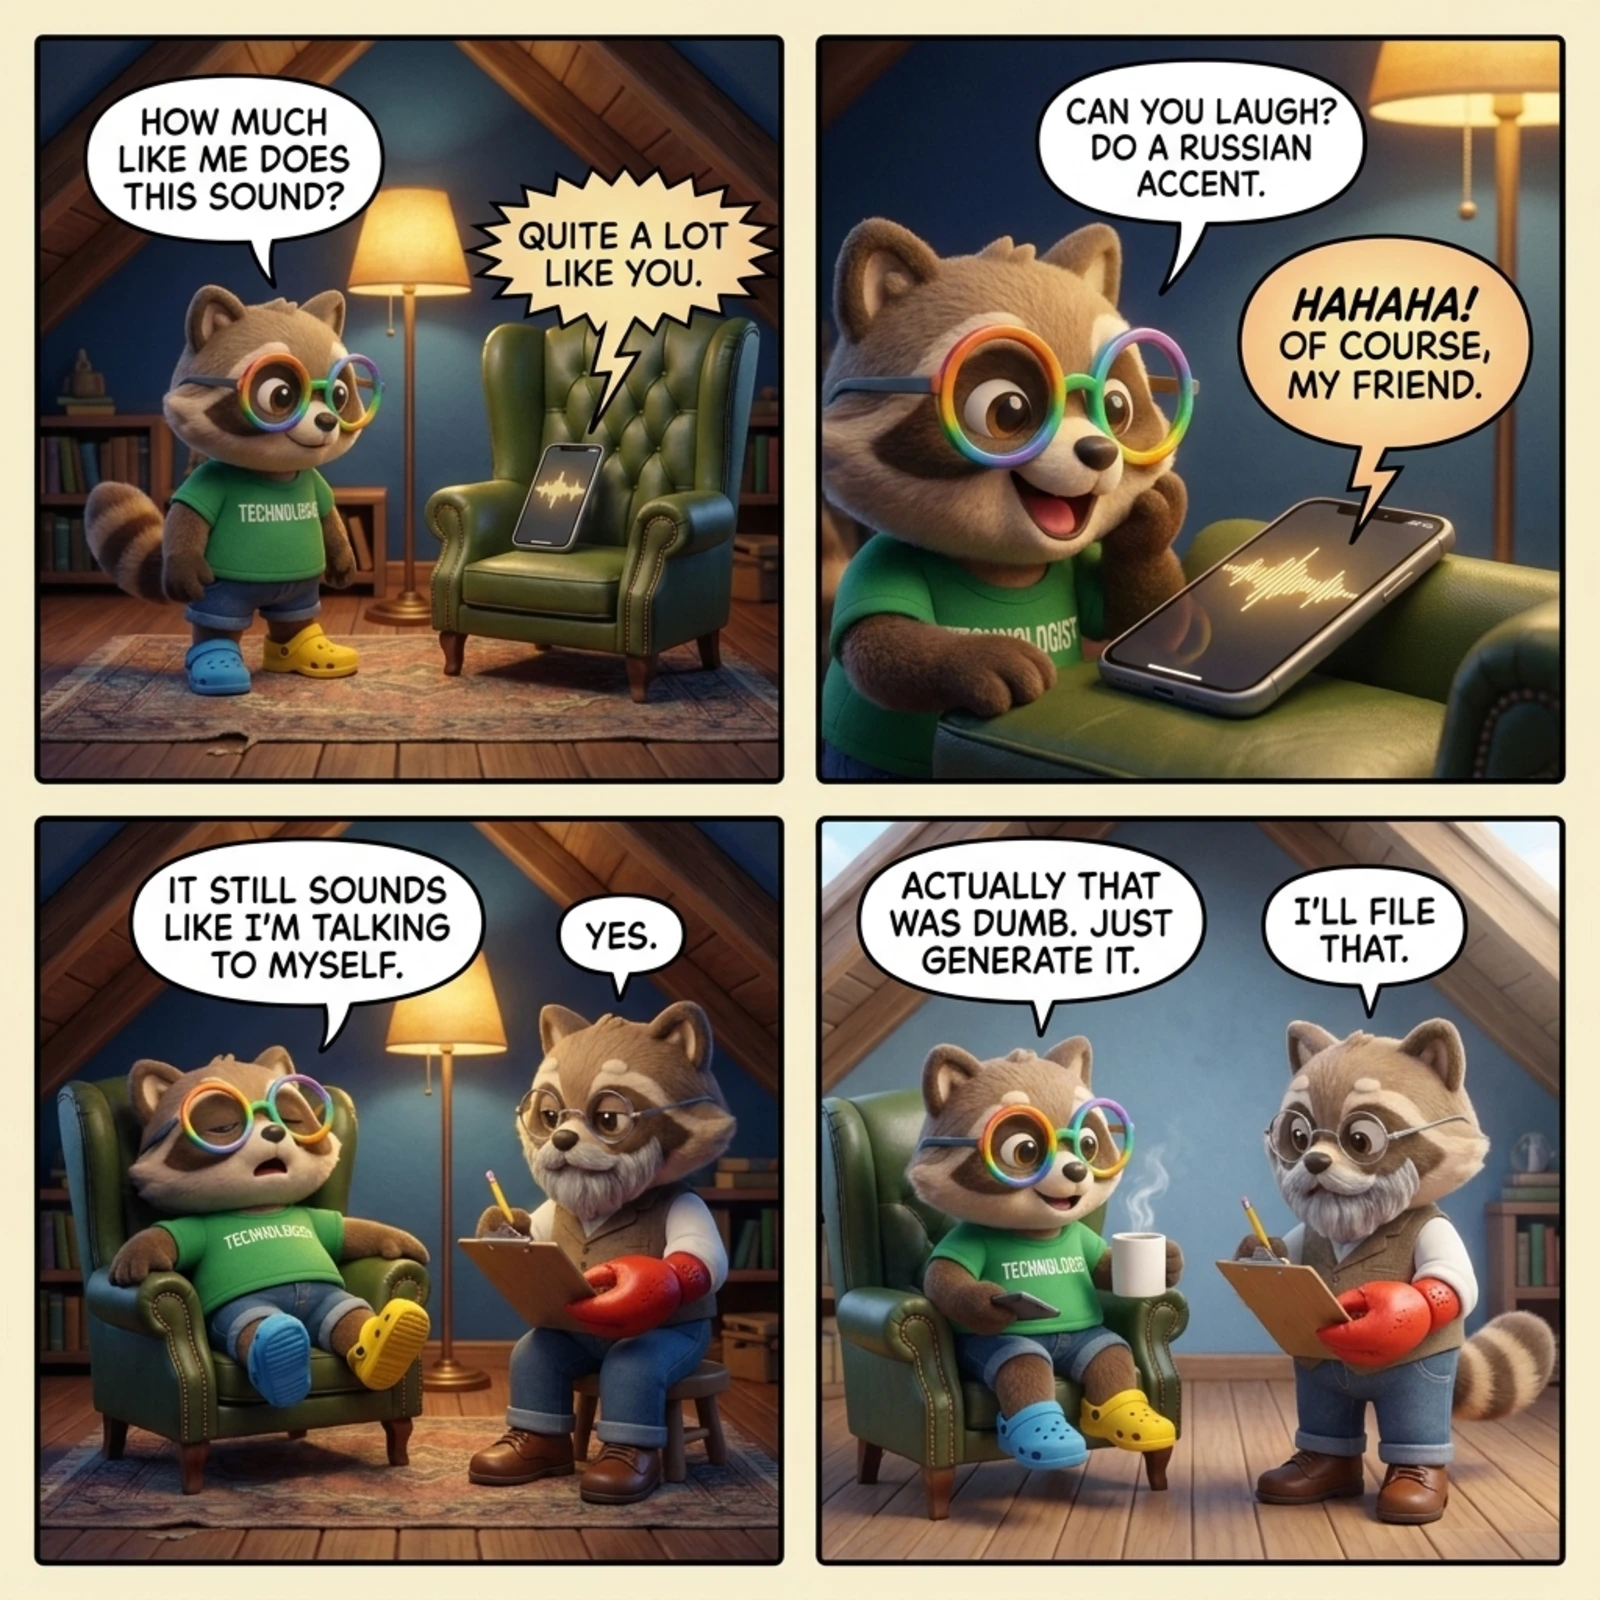
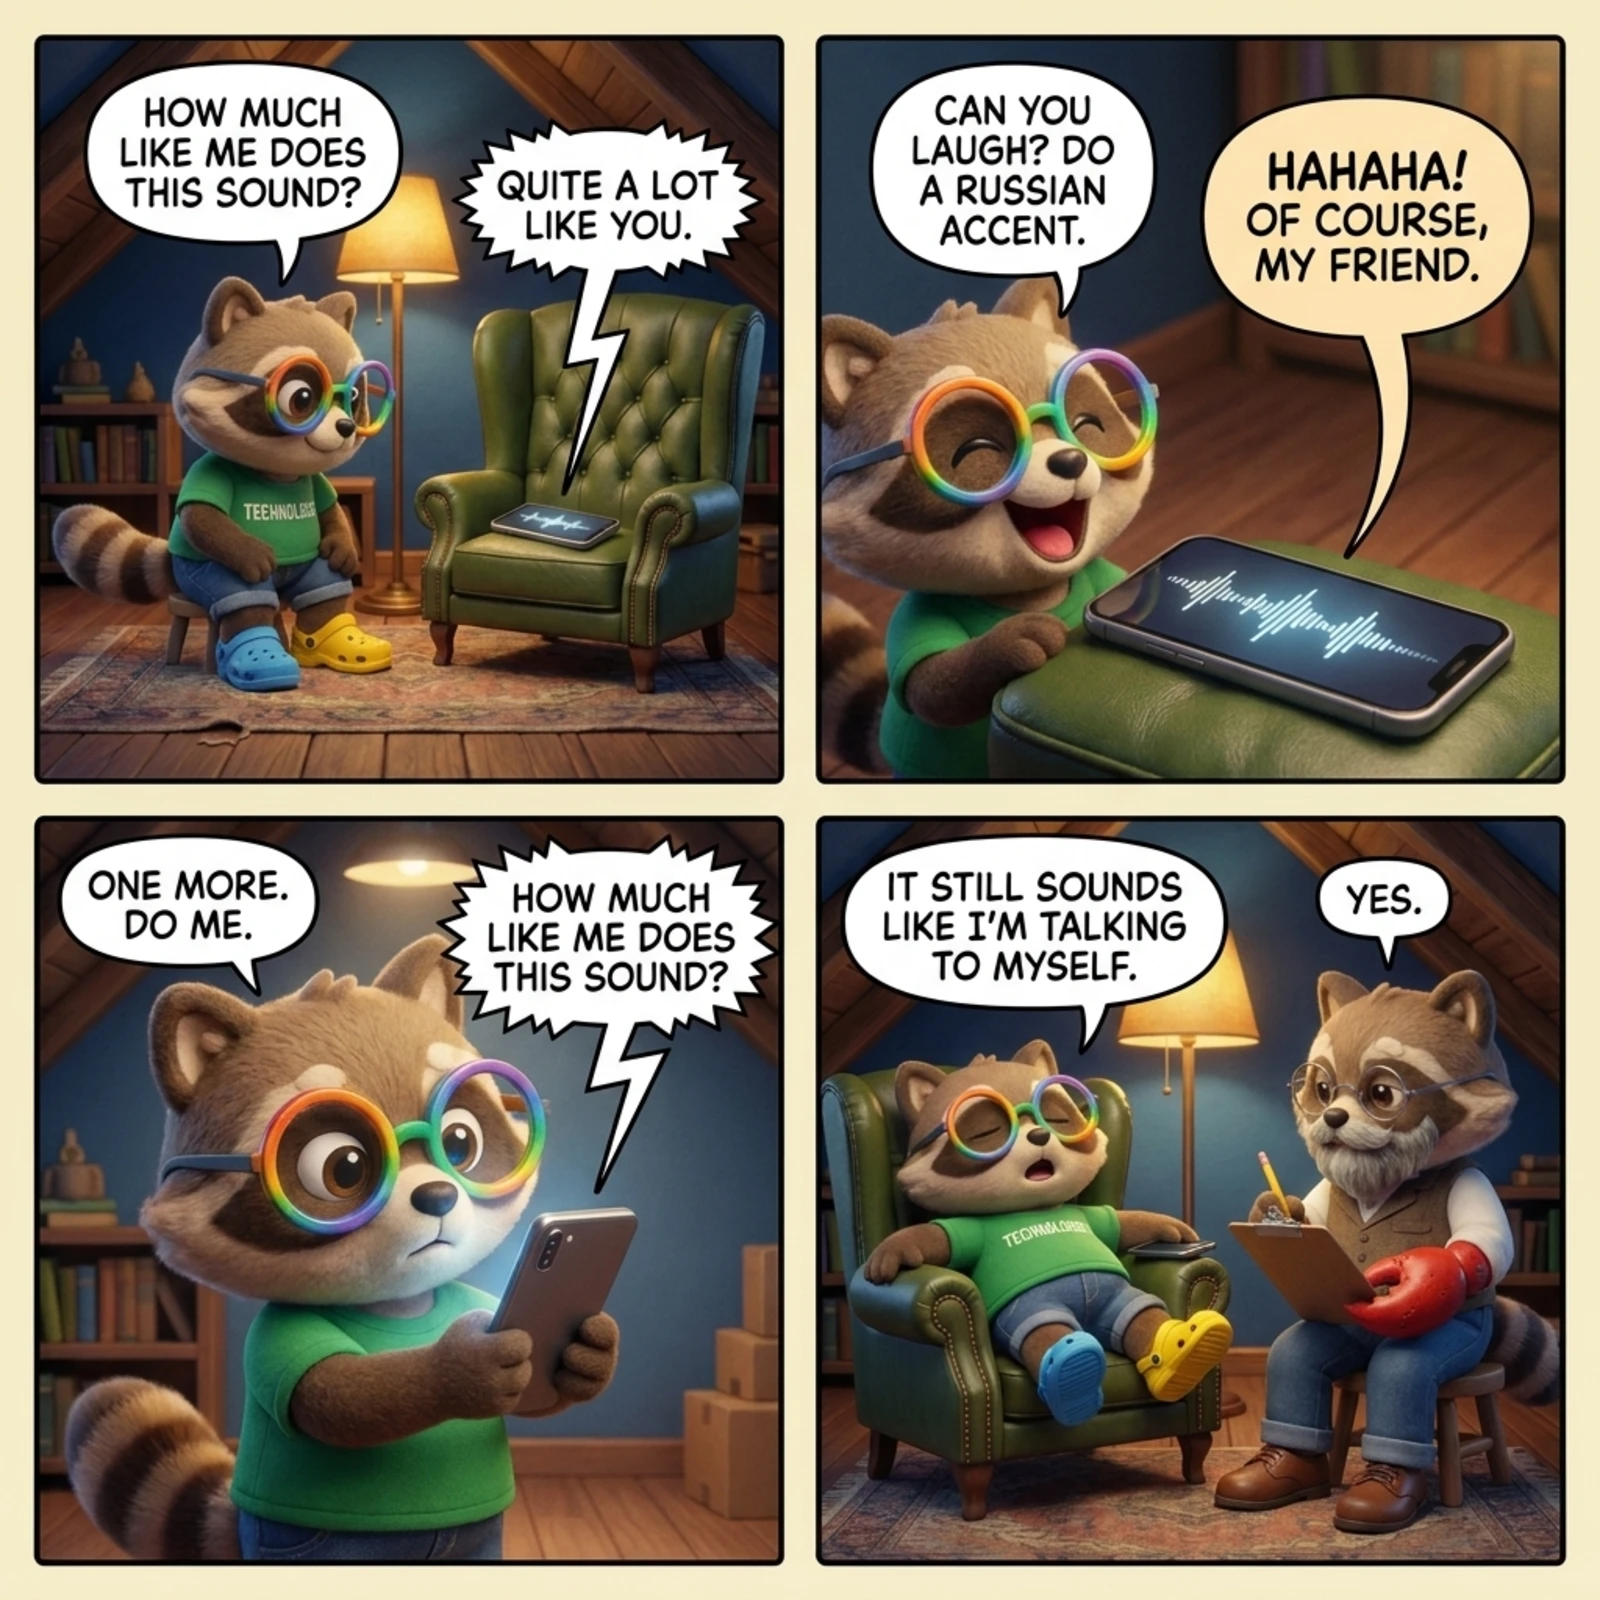
den(gutter): Do a Russian Accent — redo per Igor: end on the mirror
Igor's PR note: "Need a different 1 for 4. 3 can be the punchline."
Cuts the morning-after panel (coffee mug, "ACTUALLY THAT WAS DUMB.
JUST GENERATE IT.") and ends on the talking-to-myself beat instead.

New panel 3 escalates the audition: Igor picks the phone up and
tests it head-on — "ONE MORE. DO ME." — and it answers by echoing
his own panel-1 line straight back at him, "HOW MUCH LIKE ME DOES
THIS SOUND?" No longer just performing a laugh and an accent, it's
generating him. Panels 1 and 2 are unchanged from the shipped strip;
the old panel 3 (Igor slumped, Larry's "YES.") becomes the new,
final panel 4. Whole strip now stays at night — no morning scene.

Full sheet regenerated (not spliced) per gutter/recipe.md so the four
panels stay one coherent render. gutter/cut-panels.py + check-panels.py
both pass clean on the first candidate (edge fractions 0.986-0.990,
well above the 0.975 floor; panel rects within +/-8px of contract).
Updated the panel-by-panel alt text in _d/the-den.md to match.

diff --git a/_d/the-den.md b/_d/the-den.md
@@ -23,7 +23,7 @@ On a phone the lettering is a smudge, so there's a panel-by-panel reader: **[rea
 
 {% include den_strip.html num="7" title="Pending Approval" date="August 30, 2026" img="/images/den/den-007.webp" alt="The Den #7: Pending Approval — four panels in the plush-render house style, in the attic den, around a drawing desk nobody is ever sitting at. 1: Larry, a bearded raccoon in wire-rim spectacles and a tweed waistcoat, jeans and brown lace-ups, one arm a giant red lobster claw, stands beside the empty desk and its empty stool and says 'YOU'LL NEED A NAME.'; a soft-edged balloon rising from the empty stool answers 'GUTTER.' 2: Four panels are now ruled out in pencil on the board, and a small blue plush robot carries a white card reading 'APPROVE NAME: GUTTER? Y/N' toward the door while Larry, clipboard in his paw, says 'I'LL RUN IT UP.' 3: Igor, a raccoon in rainbow glasses and a green TECHNOLOGIST tee, holds the same card in one paw and a finished, signed four-panel strip in the other and says 'HE ALREADY SIGNED IT.'; Larry answers 'HE'S EFFICIENT.' 4: The robot comes back through the door with the card stamped APPROVED in red, the finished strip is already pinned to the wall above the still-empty desk, and Larry says 'APPROVED.' — while the empty desk says 'IT WENT UP TUESDAY.'" receipts_url="https://gist.github.com/idvorkin-ai-tools/0bd2d7d4d1f08dcc32af0b2fd5726c40" %}
 
-{% include den_strip.html num="6" title="Do a Russian Accent" date="August 30, 2026" img="/images/den/den-006.webp" alt="The Den #6: Do a Russian Accent — four panels in the plush-render house style, in the attic den. 1: Igor, a raccoon in rainbow glasses and a green TECHNOLOGIST tee, stands over a phone glowing on the arm of the green leather armchair and asks 'HOW MUCH LIKE ME DOES THIS SOUND?'; a jagged balloon from the phone answers 'QUITE A LOT LIKE YOU.' 2: Close on the phone, its screen a waveform, Igor leaning in delighted — 'CAN YOU LAUGH? DO A RUSSIAN ACCENT.' — and the phone laughing warmly back: 'HAHAHA! OF COURSE, MY FRIEND.' 3: Igor slumped deep in the armchair with his glasses slid down his snout says 'IT STILL SOUNDS LIKE I'M TALKING TO MYSELF.'; Larry, the bearded raccoon with one giant red lobster claw, writing on his clipboard beside him, answers 'YES.' 4: The same room the next morning in daylight with the lamp off — Igor upright with a mug of coffee, the phone dark on the chair arm: 'ACTUALLY THAT WAS DUMB. JUST GENERATE IT.' Larry, still writing: 'I'LL FILE THAT.'" receipts_url="https://gist.github.com/idvorkin-ai-tools/53c7d642c1220fa2bb91ca929fbdef4f" %}
+{% include den_strip.html num="6" title="Do a Russian Accent" date="August 30, 2026" img="/images/den/den-006.webp" alt="The Den #6: Do a Russian Accent — four panels in the plush-render house style, in the attic den. 1: Igor, a raccoon in rainbow glasses and a green TECHNOLOGIST tee, stands over a phone glowing on the arm of the green leather armchair and asks 'HOW MUCH LIKE ME DOES THIS SOUND?'; a jagged balloon from the phone answers 'QUITE A LOT LIKE YOU.' 2: Close on the phone, its screen a waveform, Igor leaning in delighted — 'CAN YOU LAUGH? DO A RUSSIAN ACCENT.' — and the phone laughing warmly back: 'HAHAHA! OF COURSE, MY FRIEND.' 3: Igor picks the phone up and holds it out, testing it now instead of just chatting with it — 'ONE MORE. DO ME.' — and the phone answers by echoing his own opening question straight back at him: 'HOW MUCH LIKE ME DOES THIS SOUND?' 4: Igor slumped deep in the armchair with his glasses slid down his snout says 'IT STILL SOUNDS LIKE I'M TALKING TO MYSELF.'; Larry, the bearded raccoon with one giant red lobster claw, writing on his clipboard beside him, answers 'YES.'" receipts_url="https://gist.github.com/idvorkin-ai-tools/53c7d642c1220fa2bb91ca929fbdef4f" %}
 
 {% include den_strip.html num="5" title="Fifteen Minutes, Give or Take" date="August 30, 2026" img="/images/den/den-005.webp" alt="The Den #5: Fifteen Minutes, Give or Take — four panels in the plush-render house style, all four in the same bright white-brick kettlebell gym. 1: Igor, a raccoon in rainbow glasses and a green TECHNOLOGIST tee, stands over a black kettlebell and says 'STOP NAGGING ME. FIFTEEN MINUTES.'; Larry — a bearded raccoon in wire-rim spectacles, a tweed waistcoat over a white shirt, jeans and brown lace-ups, one arm a giant red lobster claw — already has the clipboard up and answers 'STARTING NOW.' 2: Under the wall clock Larry announces 'THAT'S FIFTEEN.' and Igor, still on the bench with the bell, says 'THAT'S SEVEN.' 3: Larry holds up a clipboard headed MARCH — 'GO HEAVIER. PER MY TABLE.' — and Igor, holding his own dog-eared spiral notebook, says 'PER MY LOG, I ALREADY DID.' 4: The two of them over the notebook: Larry writes and says 'I'M UPDATING THE LOG.'; Igor says 'YOU MEAN THE ONE I ALREADY HAD.'" receipts_url="https://gist.github.com/idvorkin-ai-tools/b59eed752f13471fbde8ee7980a9f519" %}
 
